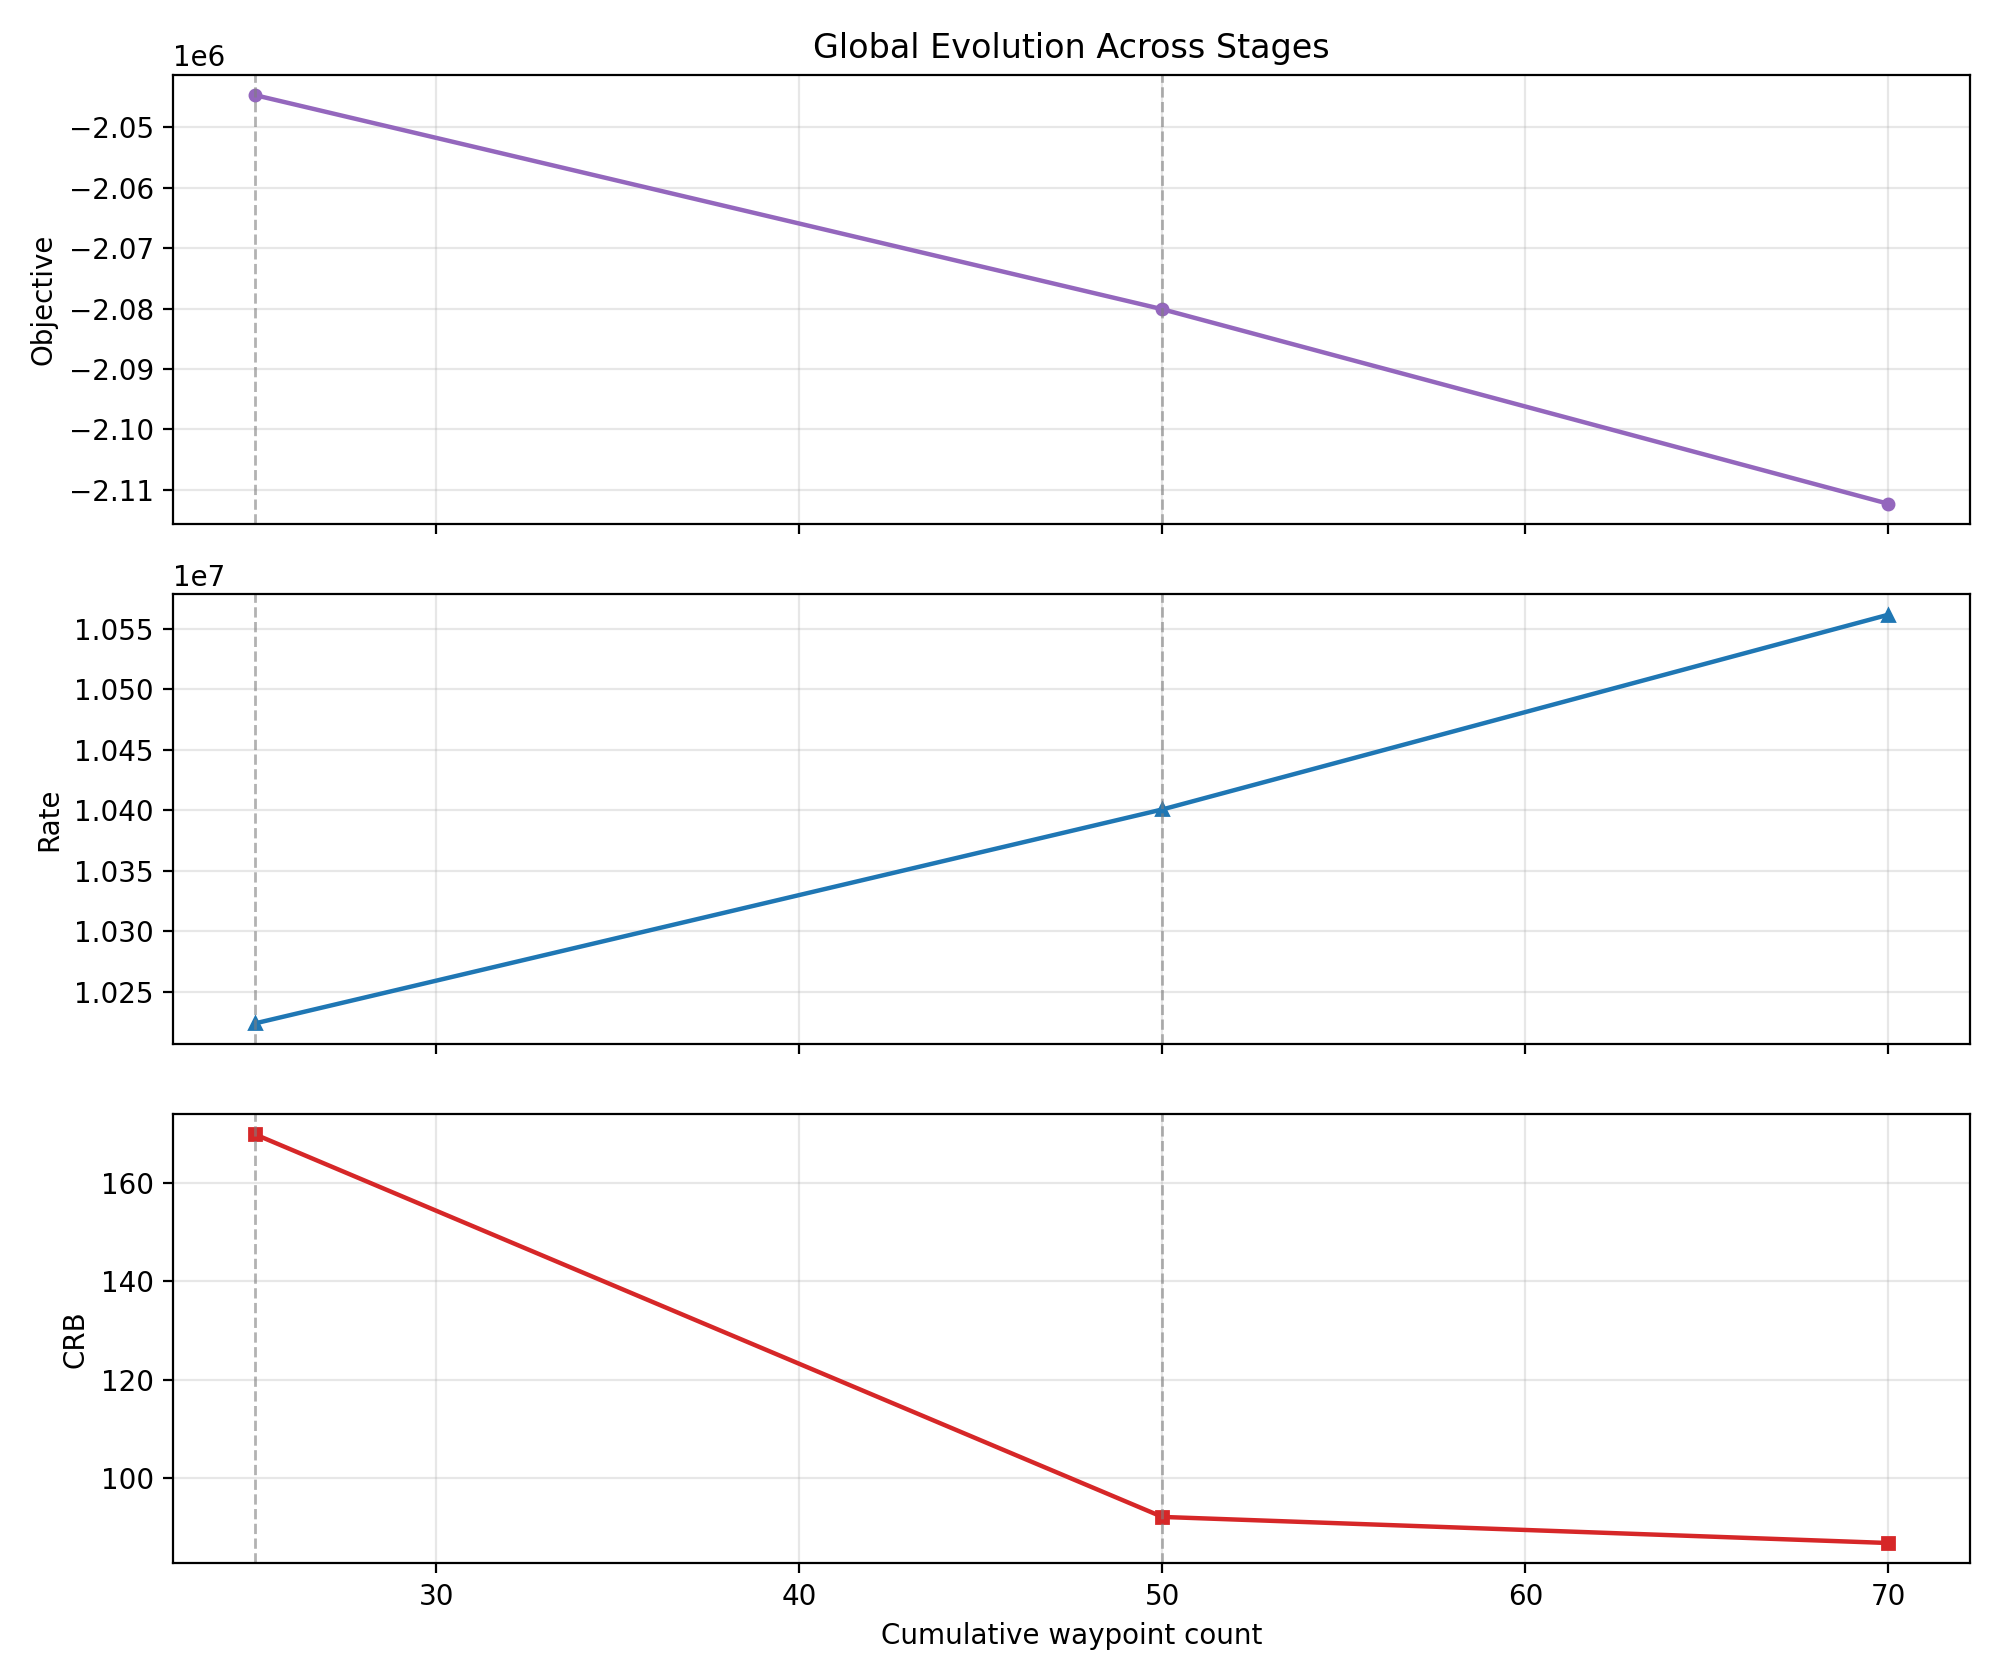
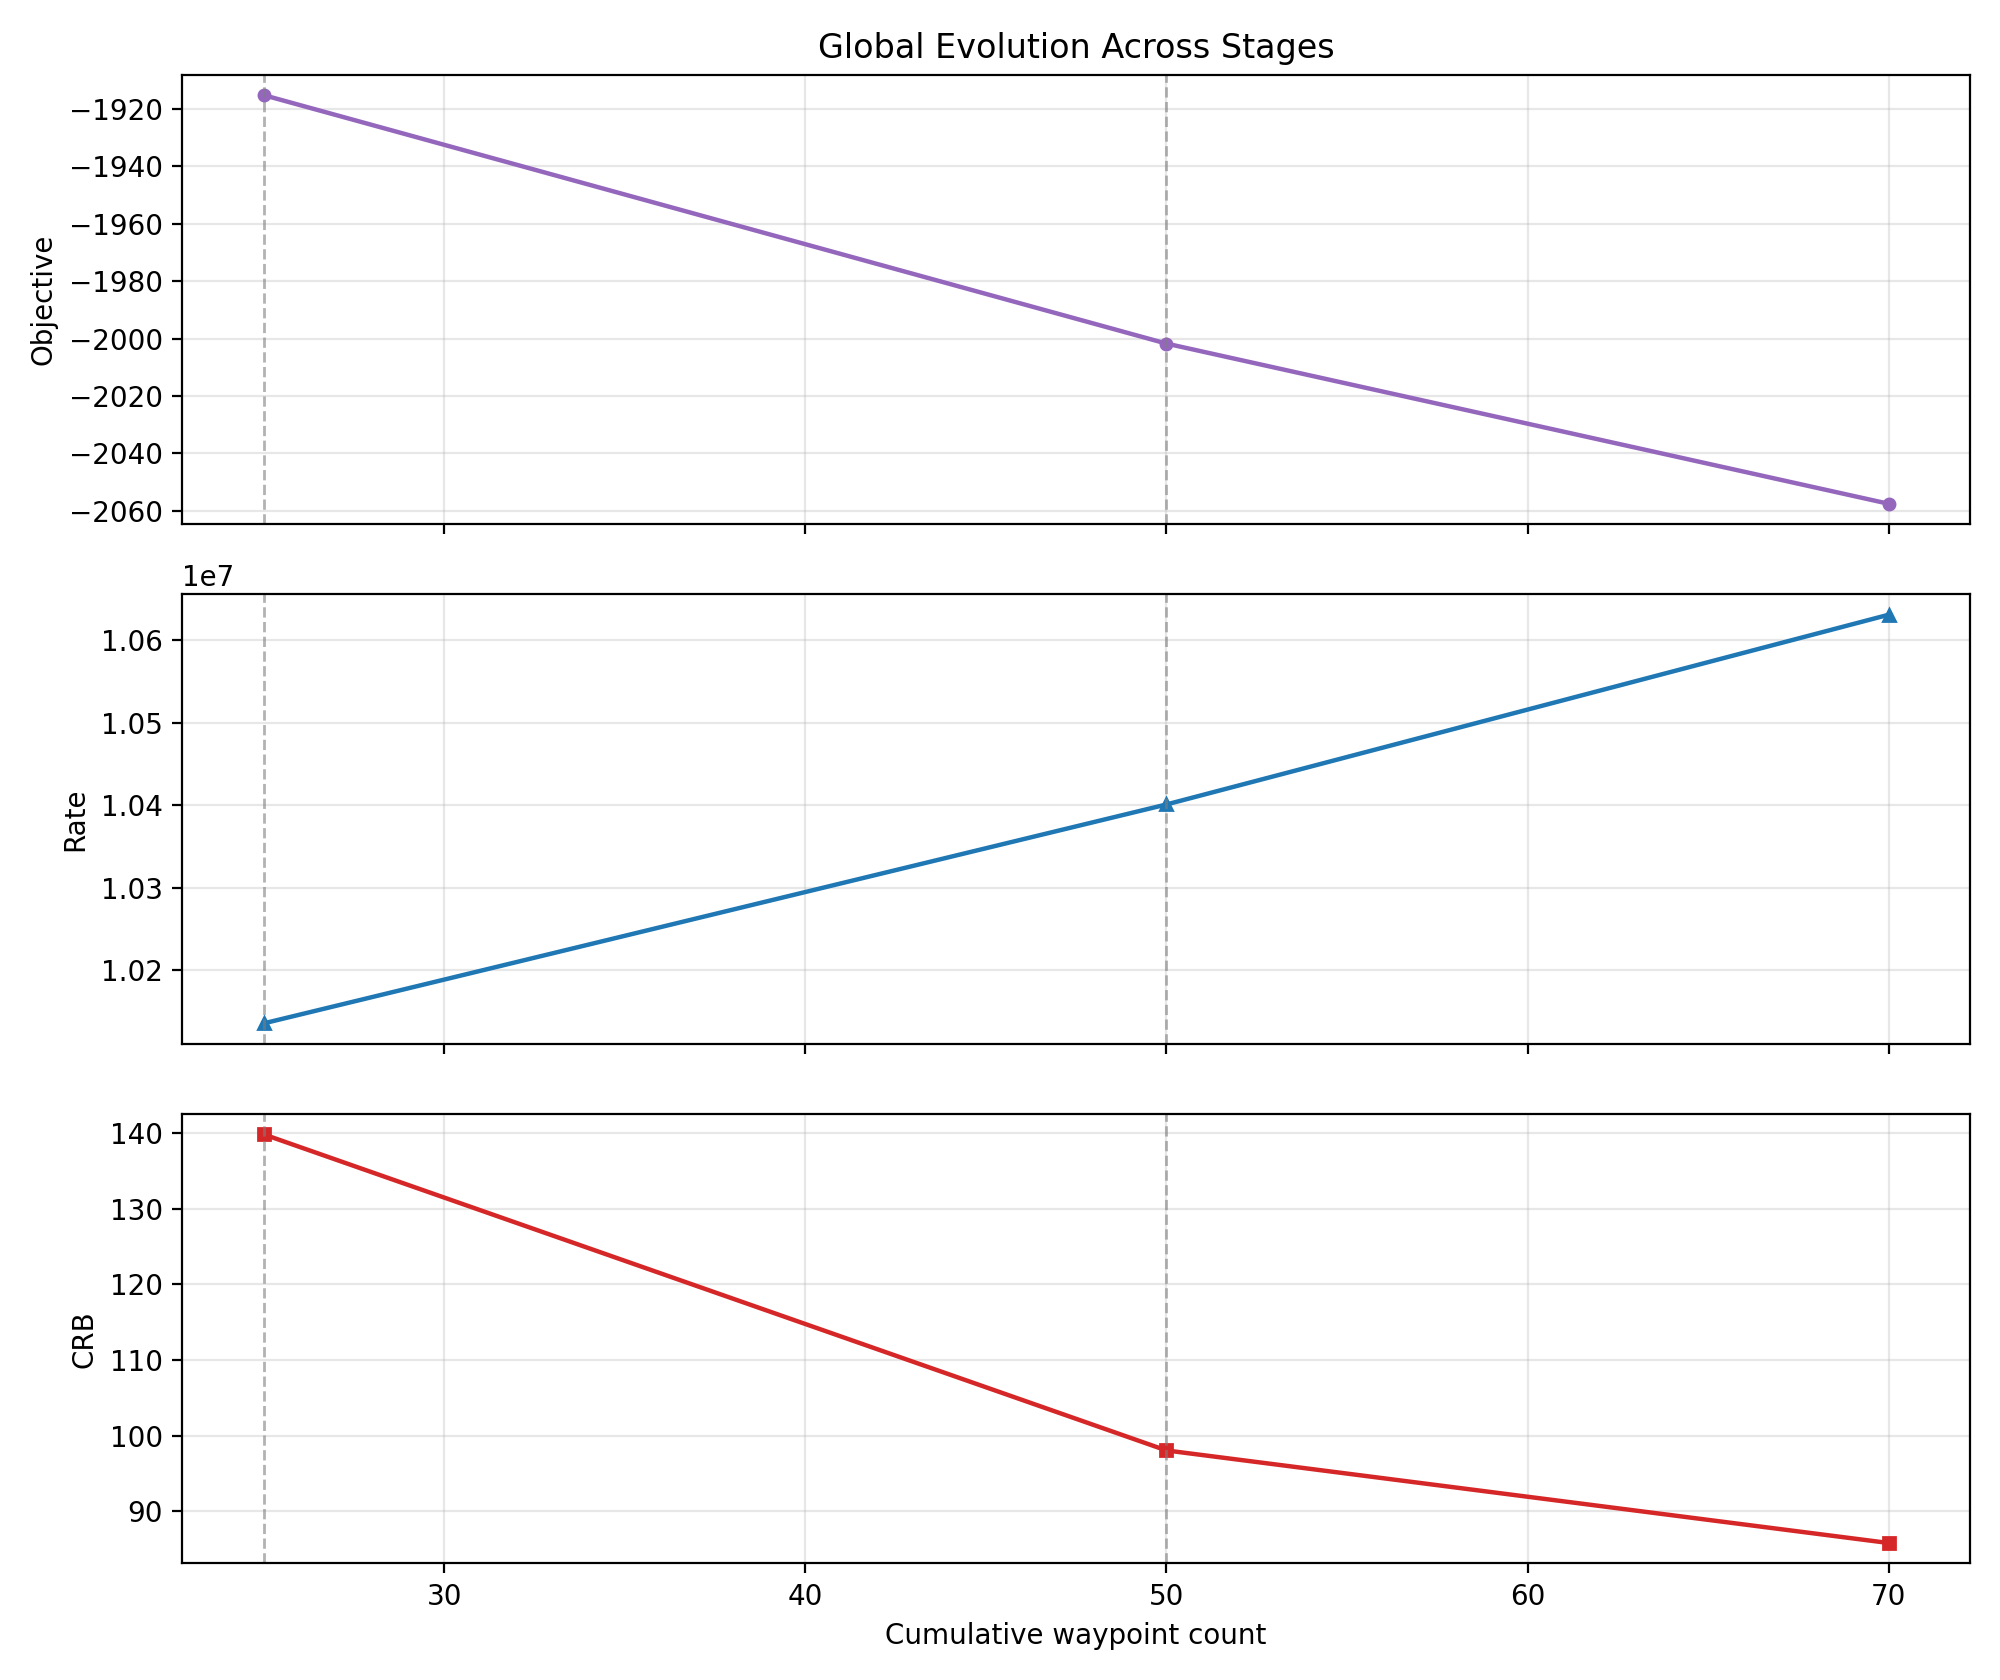
CRB_v1_004(complete_1)

diff --git a/plot_saved_results.py b/plot_saved_results.py
@@ -1,4 +1,5 @@
 from pathlib import Path
+import json
 import numpy as np
 import matplotlib.pyplot as plt
 
@@ -17,6 +18,23 @@ def load_results(results_file: Path):
 
     data = np.load(results_file, allow_pickle=True)
     return list(data["results"]), data["user_xy"], data["true_target_xy"]
+
+
+def load_meta_for_results(results_file: Path) -> dict | None:
+    """Load sidecar meta JSON written by io_utils.save_results_bundle (if present)."""
+    meta_path = results_file.parent / f"{results_file.stem}_meta.json"
+    if not meta_path.exists():
+        return None
+    return json.loads(meta_path.read_text(encoding="utf-8"))
+
+
+def uav_start_xy_from_meta(meta: dict | None) -> np.ndarray:
+    """UAV base position used in simulation (defaults match system_model.SimConfig)."""
+    if meta is None:
+        return np.array([0.0, 0.0], dtype=float)
+    xb = float(meta.get("xB", 0.0))
+    yb = float(meta.get("yB", 0.0))
+    return np.array([xb, yb], dtype=float)
 
 
 def get_tradeoff_result(results):
@@ -184,7 +202,7 @@ def plot_global_evolution_by_waypoints(tradeoff, out_dir: Path):
     fig.savefig(out_dir / "global_evolution_by_waypoints.png", dpi=200)
 
 
-def plot_trajectory(tradeoff, user_xy, true_target_xy, out_dir: Path):
+def plot_trajectory(tradeoff, user_xy, true_target_xy, out_dir: Path, uav_start_xy: np.ndarray):
     fig, ax = plt.subplots(figsize=(6.2, 5.2))
     if tradeoff is None:
         ax.text(0.5, 0.5, "No trajectory data", ha="center", va="center")
@@ -230,8 +248,15 @@ def plot_trajectory(tradeoff, user_xy, true_target_xy, out_dir: Path):
             alpha=0.8,
             label="target est updates",
         )
-    # Add UAV initial position
-    ax.scatter(100.0, 100.0, marker="s", s=60, c="tab:cyan", label="UAV start")
+    uav_start_xy = np.asarray(uav_start_xy, dtype=float).reshape(2,)
+    ax.scatter(
+        uav_start_xy[0],
+        uav_start_xy[1],
+        marker="s",
+        s=60,
+        c="tab:cyan",
+        label="UAV start",
+    )
     ax.set_title("Optimized Trajectory (Tradeoff)")
     ax.set_xlabel("x (m)")
     ax.set_ylabel("y (m)")
@@ -243,7 +268,7 @@ def plot_trajectory(tradeoff, user_xy, true_target_xy, out_dir: Path):
     fig.savefig(out_dir / "trajectory_tradeoff.png", dpi=200)
 
 
-def plot_all_trajectories(results, user_xy, true_target_xy, out_dir: Path):
+def plot_all_trajectories(results, user_xy, true_target_xy, out_dir: Path, uav_start_xy: np.ndarray):
     fig, ax = plt.subplots(figsize=(8, 6))
     colors = {'communication_only': 'blue', 'tradeoff': 'green', 'sensing_only': 'red'}
     markers = {'communication_only': 'o', 'tradeoff': 's', 'sensing_only': '^'}
@@ -265,7 +290,15 @@ def plot_all_trajectories(results, user_xy, true_target_xy, out_dir: Path):
     # Common elements
     ax.scatter(user_xy[0], user_xy[1], marker="*", s=120, c="tab:green", label="user")
     ax.scatter(true_target_xy[0], true_target_xy[1], marker="x", s=90, c="tab:red", label="target true")
-    ax.scatter(100.0, 100.0, marker="s", s=60, c="tab:cyan", label="UAV start")
+    uav_start_xy = np.asarray(uav_start_xy, dtype=float).reshape(2,)
+    ax.scatter(
+        uav_start_xy[0],
+        uav_start_xy[1],
+        marker="s",
+        s=60,
+        c="tab:cyan",
+        label="UAV start",
+    )
     ax.set_title("Trajectories for All Methods")
     ax.set_xlabel("x (m)")
     ax.set_ylabel("y (m)")
@@ -282,14 +315,16 @@ def main():
     out_dir.mkdir(parents=True, exist_ok=True)
 
     results, user_xy, true_target_xy = load_results(results_file)
+    meta = load_meta_for_results(results_file)
+    uav_start = uav_start_xy_from_meta(meta)
     tradeoff = get_tradeoff_result(results)
     stage_histories = extract_all_stage_histories(tradeoff)
 
     plot_performance_comparison(results, out_dir)
     plot_stagewise_convergence(stage_histories, out_dir)
     plot_global_evolution_by_waypoints(tradeoff, out_dir)
-    plot_trajectory(tradeoff, user_xy, true_target_xy, out_dir)
-    plot_all_trajectories(results, user_xy, true_target_xy, out_dir)
+    plot_trajectory(tradeoff, user_xy, true_target_xy, out_dir, uav_start)
+    plot_all_trajectories(results, user_xy, true_target_xy, out_dir, uav_start)
     print(f"Saved figures to: {out_dir}")
     plt.show()
 

diff --git a/p2_solver.py b/p2_solver.py
@@ -200,7 +200,7 @@ def solve_p2m_sca(stage: StageData, cfg: sm.SimConfig, e_cfg: pb.EnergyConfig, s
             H_all_try = np.vstack([stage.prev_hover_xy, H_cur_try]) if stage.prev_hover_xy.size else H_cur_try
             crb_try = sm.crb_xy_sum(H_all_try, stage.target_hat_xy, cfg)
             r_try = _rate_value(S_try, stage, cfg)
-            obj_try = stage.eta * crb_try - (1 - stage.eta) * r_try
+            obj_try = stage.eta * crb_try - (1 - stage.eta) * r_try/1000
             if np.isfinite(obj_try):
                 if obj_try < obj_cand:
                     S_cand = S_try
@@ -218,7 +218,7 @@ def solve_p2m_sca(stage: StageData, cfg: sm.SimConfig, e_cfg: pb.EnergyConfig, s
             H_all_try = np.vstack([stage.prev_hover_xy, H_cur_try]) if stage.prev_hover_xy.size else H_cur_try
             crb_cand = sm.crb_xy_sum(H_all_try, stage.target_hat_xy, cfg)
             r_cand = _rate_value(S_cand, stage, cfg)
-            obj_cand = stage.eta * crb_cand - (1 - stage.eta) * r_cand
+            obj_cand = stage.eta * crb_cand - (1 - stage.eta) * r_cand/1000
 
         S_ref = S_cand
         V_ref = sm.compute_velocities(S_ref, stage.start_xy, cfg.Tf)

diff --git a/io_utils.py b/io_utils.py
@@ -44,5 +44,21 @@ def save_results_bundle(
         "noise_factor_a": cfg.a,
         "gp_scale": cfg.gp_scale,
         "save_full_trajectories": bool(save_full_trajectories),
+        # Geometry / trajectory (for plotting and downstream tools; matches simulation)
+        "xB": float(cfg.xB),
+        "yB": float(cfg.yB),
+        "Lx": float(cfg.Lx),
+        "Ly": float(cfg.Ly),
+        "H": float(cfg.H),
+        "mu": int(cfg.mu),
+        "Tf": float(cfg.Tf),
+        "Th": float(cfg.Th),
+        "Vmax": float(cfg.Vmax),
+        # Communication / sensing raw knobs (rebuild cfg without guessing)
+        "P_dbm": float(cfg.P_dbm),
+        "B": float(cfg.B),
+        "N0_dbm_per_hz": float(cfg.N0_dbm_per_hz),
+        "alpha0_db": float(cfg.alpha0_db),
+        "beta0_db": float(cfg.beta0_db),
     }
     meta_json_path.write_text(json.dumps(meta, indent=2), encoding="utf-8")

diff --git a/system_model.py b/system_model.py
@@ -261,12 +261,19 @@ def evaluate_stage_metrics(
     S: np.ndarray,
     user_xy: np.ndarray,
     target_hat_xy: np.ndarray,
-    cfg: SimConfig
+    cfg: SimConfig,
+    start_xy: np.ndarray | None = None,
 ) -> dict:
     """
     返回当前轨迹的通信+感知指标（Section II）
+
+    start_xy: 轨迹起点用于速度计算；默认与仿真一致，为 (xB, yB)。
     """
-    V = compute_velocities(S, np.array([cfg.xB, cfg.yB]), cfg.Tf)
+    if start_xy is None:
+        start_xy = np.array([cfg.xB, cfg.yB], dtype=float)
+    else:
+        start_xy = np.asarray(start_xy, dtype=float).reshape(2,)
+    V = compute_velocities(S, start_xy, cfg.Tf)
     Hov = extract_hover_points(S, cfg.mu)
 
     dc = dc_uav_to_user(S, user_xy, cfg.H)
